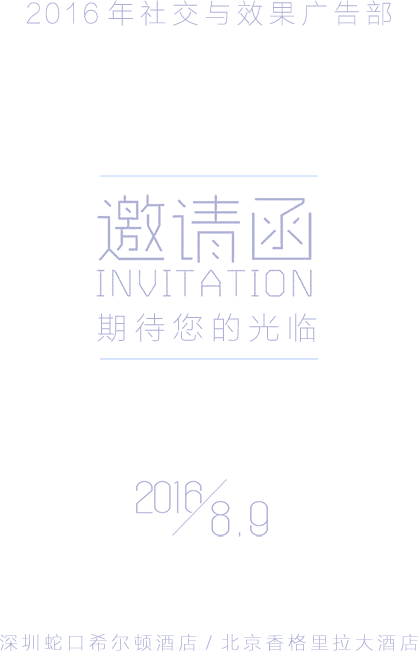
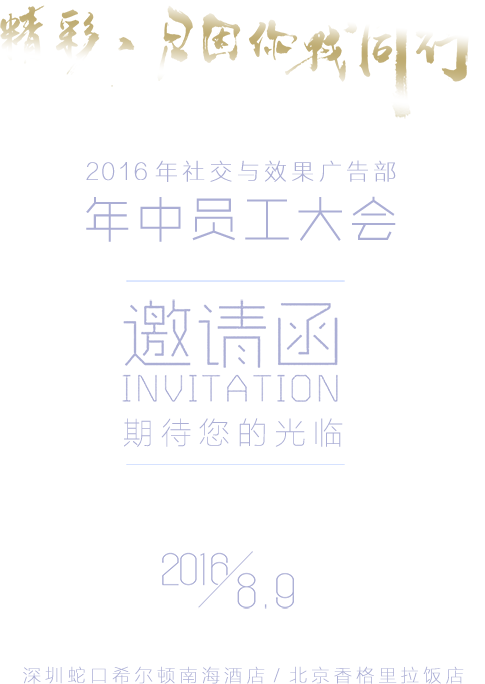
改城市，改封面内容
改城市，改封面内容

diff --git a/app/scss/main.scss b/app/scss/main.scss
@@ -171,7 +171,7 @@ body {
 }
 
 #city {
-    top: 460px;
+    top: 408px;
     left: 0;
     $city: '../images/city.png';
     width: image-width($city);
@@ -189,8 +189,8 @@ body {
 }
 
 #cover-content2 {
-    top: 295px;
-    left: 112px;
+    top: 260px;
+    left: 86px;
     $cover-content2: '../images/cover-content2.png';
     width: image-width($cover-content2);
     height: image-height($cover-content2);

diff --git a/app/css/main.css b/app/css/main.css
@@ -390,10 +390,10 @@ body {
 }
 
 #city {
-  top: 460px;
+  top: 408px;
   left: 0;
   width: 2176px;
-  height: 1015px;
+  height: 1067px;
 }
 
 #cover-content1 {
@@ -405,10 +405,10 @@ body {
 }
 
 #cover-content2 {
-  top: 295px;
-  left: 112px;
-  width: 418px;
-  height: 651px;
+  top: 260px;
+  left: 86px;
+  width: 485px;
+  height: 684px;
   background-image: url("../images/cover-content2.png");
 }
 
